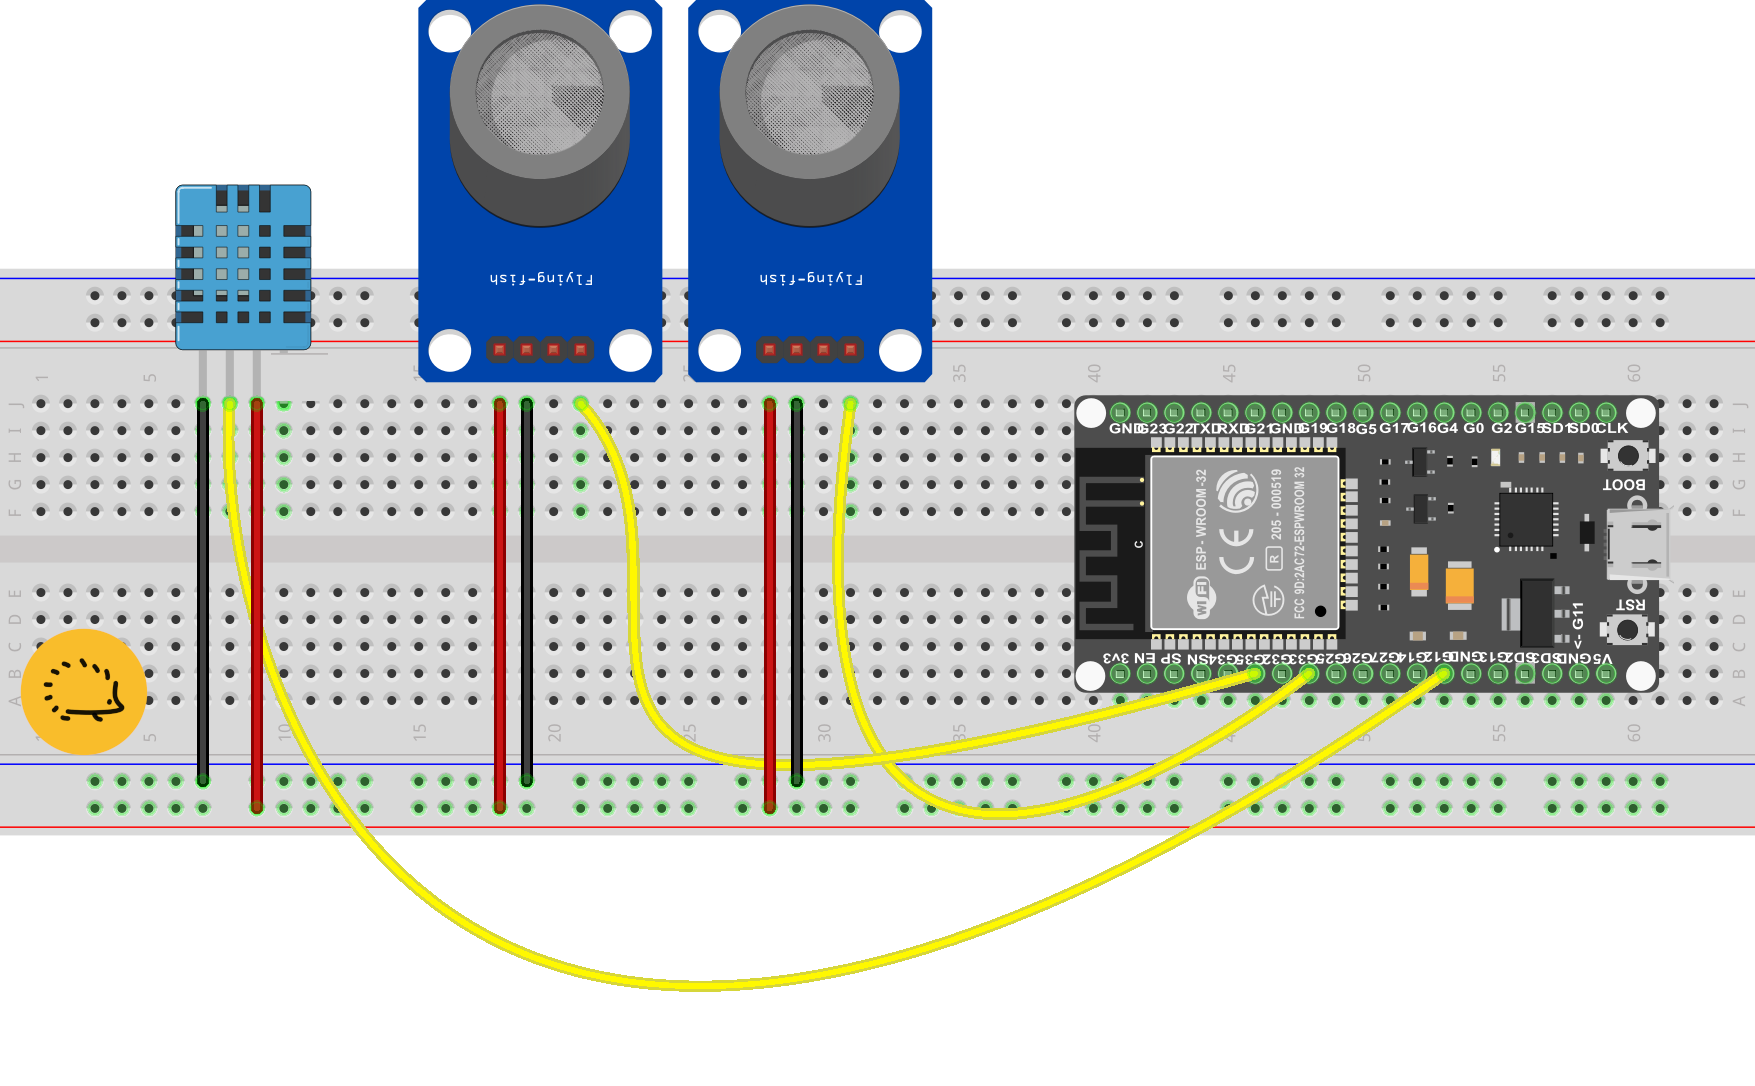
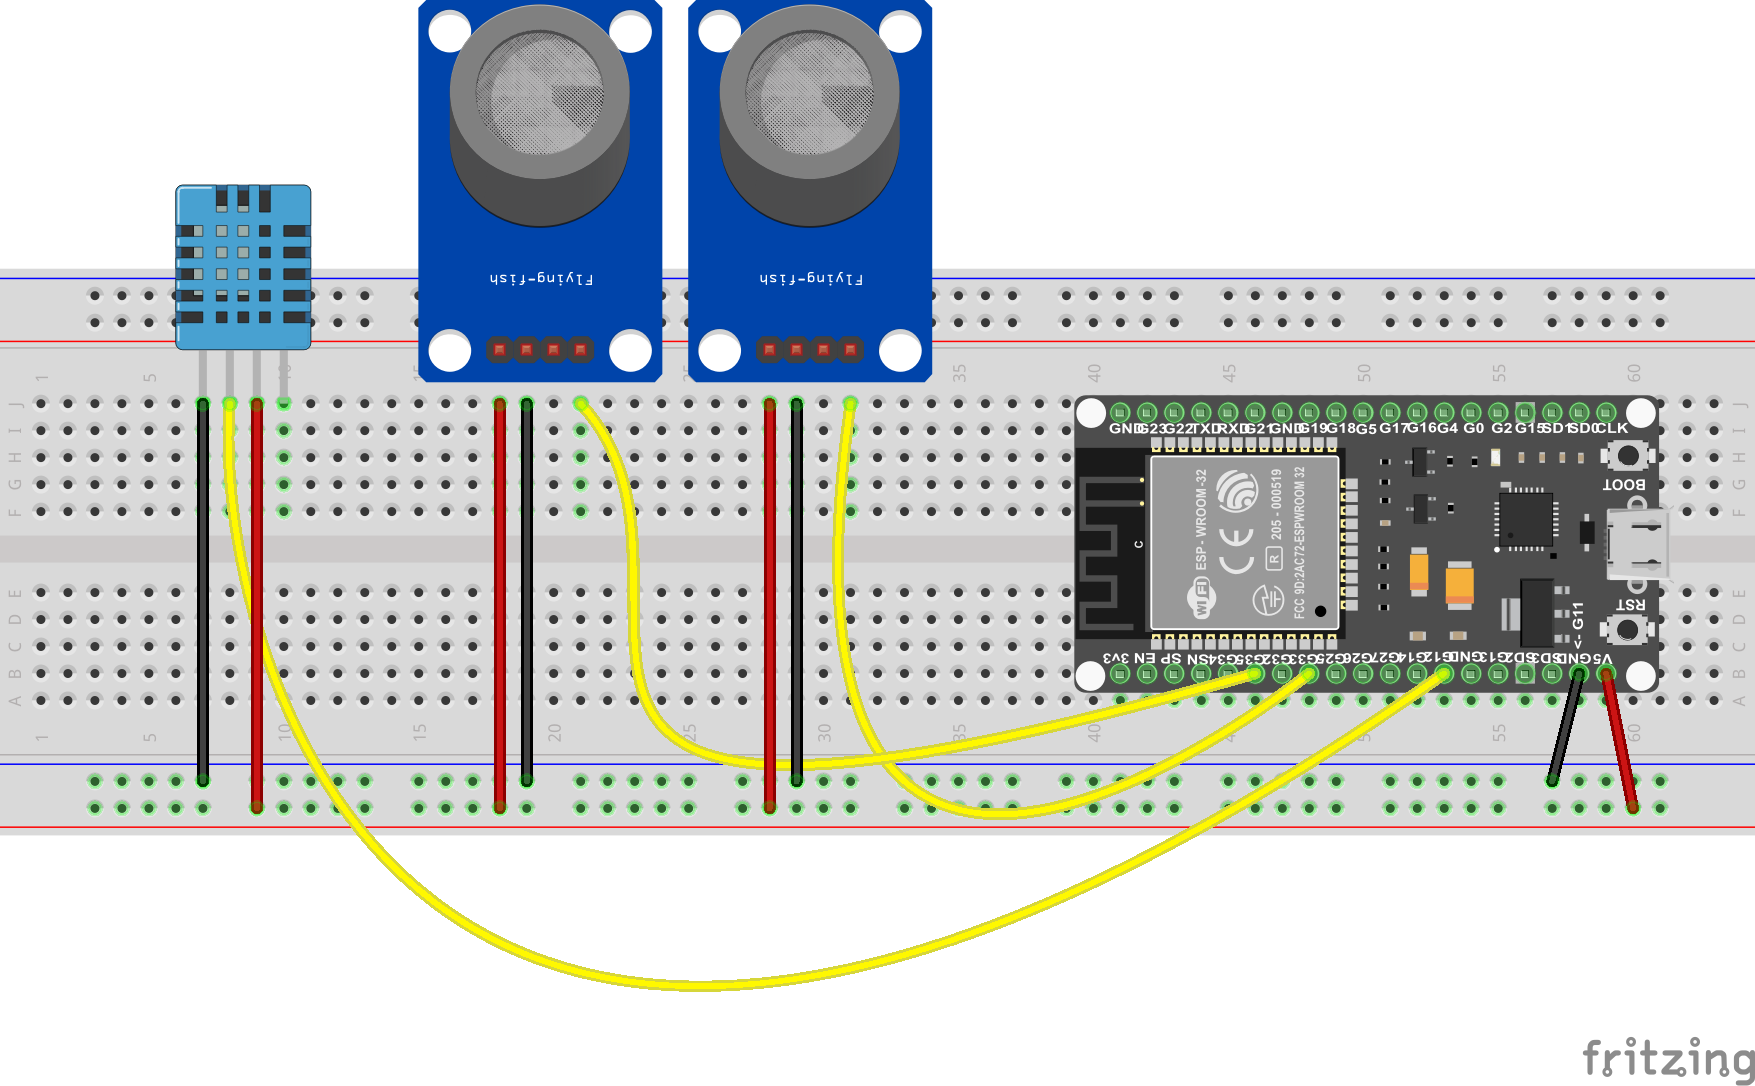
mod text

diff --git a/content/it/blog/153/index.md b/content/it/blog/153/index.md
@@ -25,8 +25,8 @@ L'avvento dell'Internet of Things (IoT) ha rivoluzionato il modo in cui interagi
 
 In questo articolo, presenteremo un progetto per la realizzazione di una centralina multi-sensore basata sulla scheda ESP32. La centralina sarà in grado di:
 
-- Rilevare la temperatura e l'umidità dell'ambiente.
-- Monitorare la qualità dell'aria.
+- Rilevare la temperatura e l'umidità dell'ambiente,
+- Monitorare la qualità dell'aria,
 - Rilevare la presenza di gas combustibili.
 
 
@@ -172,9 +172,31 @@ Applicazioni:
 
 Questa mini stazione meteo con il sensore DHT11 può essere utilizzata per monitorare la temperatura e l'umidità dell'aria in ambienti interni ed esterni, come ad esempio:
 
-- Domotica: Il sensore può essere utilizzato per controllare la temperatura e l'umidità delle singole stanze.
-- Stazioni meteo per per misurare la temperatura e l'umidità dell'aria.
+- Domotica: Il sensore può essere utilizzato per controllare la temperatura e l'umidità delle singole stanze,
+- Stazioni meteo per per misurare la temperatura e l'umidità dell'aria,
 - Serre: Il DHT11 può essere usato in serre per monitorare temperatura e umidità.
+
+
+### Componenti del progetto
+
+Il progetto non usa resistenze o altri componenti passivi e non ha bisogno di saldature: i connettori Dupont e una breadboard
+
+- Sensore MQ-2 - vedi su <a href="https://amzn.to/49pwhrF" target="_blank">Amazon</a>
+- Sensore MQ-135 - vedi su <a href="https://amzn.to/48qeoaT" target="_blank">Amazon</a>
+- Sensore DHT11 - vedi su <a href="https://amzn.to/49f2fqF" target="_blank">Amazon</a>
+- Scheda ESP32 - vedi su <a href="https://amzn.to/49Gig8Q" target="_blank">Amazon</a>
+
+
+## Lo schema elettrico
+
+Per assemblare il progetto della centralina dovesti usare un breadboard o meglio ancora due breadboard unite per la linea di *mezzeria*. La massa dell'ESP32 deve essere collegata al negativo comune della breadboard (non viene mostrato nella immagine per chiarezza, lo stesso per il cavo USB). 
+
+
+Le connessioni (+) e (-) dei sensori sono facilitate dall breadboard e sono abbastanza semplici: basta seguire il disegno. Le line dati dei sensori sono rappresentate in giallo. Il pin centrale del DHT11 viene collegato al pin 13 dell'ESP32 mentre i due sensori MQ sono collegate ai pin 33 e 35.
+<br>
+<br>
+
+<img width="800" class="x figure-img img-fluid lazyload blur-up"  src="images/103.png" alt="schema elettrico fritzing della centralina multi sensore con ESP32">
 
 <br>
 
@@ -344,19 +366,5 @@ sono usate per tracciare gli errori dei tre sensori. Le causa degli errori potre
 - un problema alla tensione della USB del computer, 
 - un cavo USB difettoso e cioè parzialmente spezzato all'interno.
 
-<br>
-
-## Lo schema elettrico
-
-Per assemblare il progetto della centralina dovesti usare un breadboard o megli oancora unire due breadboard unite per la linea di mezzeria. La massa dell'ESP32 deve essere collegata al negativo comune della breadboard (non viene mostrato nella immagine per chiarezza, lo stesso per il cavo USB). 
-
-
-Le connessioni (+) e (-) dei sensori sono facilitate dall breadboard e sono abbastanza semplici: basta seguire il disegno. Le line dati dei sensori sono rappresentate in giallo. Il pin centrale del DHT11 viene collegato al pin 13 dell'ESP32 mentre i due sensori MQ sono collegate ai pin 33 e 35.
-<br>
-<br>
-
-<img width="800" class="x figure-img img-fluid lazyload blur-up"  src="images/103.png" alt="schema elettrico fritzing della centralina multi sensore con ESP32">
-
-<br>
 <br>
 <p style="font-size: 0.80em;">Robotdazero.it - post - R.153.1.2.1</p>
